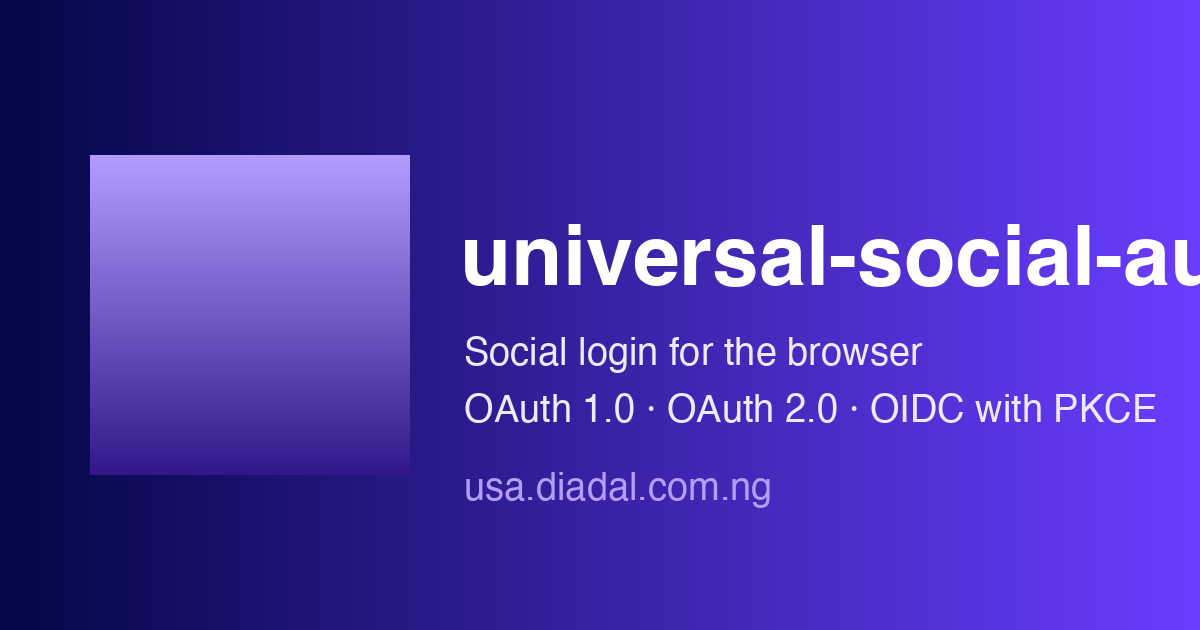
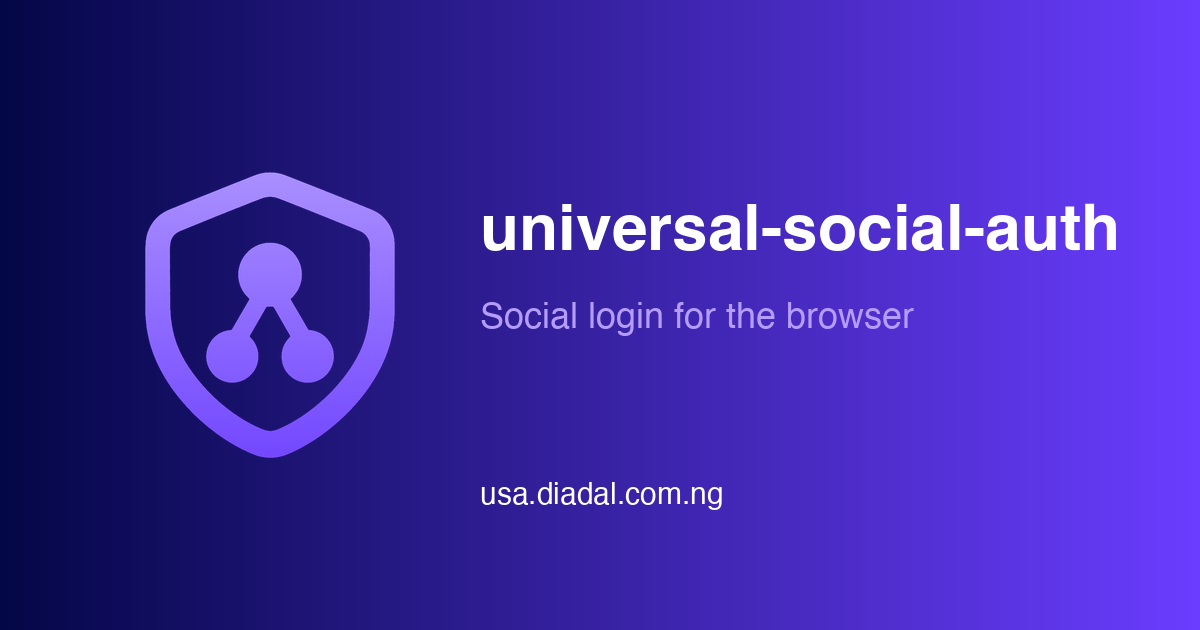
feat(docs): enrich landing page with install tabs and code snapshot
- Add npm/pnpm/yarn install tabs and browser/server code snapshot tabs
- Add npm, license and GitHub badges
- Use the logo as the hero image
- Regenerate logo, favicons and OG image from the shield mask; the
  previous recolor filled the whole square with the gradient

diff --git a/docs-site/content/.vitepress/theme/custom.css b/docs-site/content/.vitepress/theme/custom.css
@@ -16,6 +16,36 @@
   --vp-c-brand-soft: rgba(180, 157, 255, 0.16);
 }
 
+.home-badges {
+  display: flex;
+  flex-wrap: wrap;
+  gap: 0.5rem;
+  justify-content: center;
+  margin: 2.5rem 0 1rem;
+}
+
+.home-badges p {
+  display: flex;
+  flex-wrap: wrap;
+  gap: 0.5rem;
+  justify-content: center;
+  margin: 0;
+}
+
+.home-cta {
+  margin: 2.5rem auto 0;
+  max-width: 688px;
+  padding: 1.25rem 1.5rem;
+  border: 1px solid var(--vp-c-brand-soft);
+  border-radius: 12px;
+  background: var(--vp-c-brand-soft);
+  text-align: center;
+}
+
+.vp-doc div[class*='language-'] {
+  border-radius: 12px;
+}
+
 .VPButton.brand {
   border-color: #6b3dff;
   background-color: #6b3dff;

diff --git a/docs-site/content/index.md b/docs-site/content/index.md
@@ -5,6 +5,9 @@ hero:
   name: universal-social-auth
   text: Social login for the browser
   tagline: OAuth 1.0, OAuth 2.0, and OIDC with PKCE, state checks, and lifecycle hooks. Your backend keeps the client secret.
+  image:
+    src: /logo.png
+    alt: universal-social-auth logo
   actions:
     - theme: brand
       text: Get started
@@ -24,3 +27,64 @@ features:
   - title: Works with your backend
     details: Recipes for Express, Laravel, Zintrust, and other backends, plus OIDC providers such as Okta, Entra ID, and Keycloak.
 ---
+
+<div class="home-badges">
+
+[![npm version](https://img.shields.io/npm/v/universal-social-auth?color=6b3dff&label=npm)](https://www.npmjs.com/package/universal-social-auth)
+[![license](https://img.shields.io/npm/l/universal-social-auth?color=1a1b4d)](https://github.com/diadal/universal-social-auth/blob/main/LICENSE)
+[![GitHub](https://img.shields.io/badge/source-GitHub-1a1b4d?logo=github)](https://github.com/diadal/universal-social-auth)
+
+</div>
+
+## Install in seconds
+
+::: code-group
+
+```bash [npm]
+npm install universal-social-auth axios
+```
+
+```bash [pnpm]
+pnpm add universal-social-auth axios
+```
+
+```bash [yarn]
+yarn add universal-social-auth axios
+```
+
+:::
+
+## See it in code
+
+::: code-group
+
+```ts [Browser]
+import axios from 'axios';
+import UniversalSocialauth from 'universal-social-auth';
+
+const auth = new UniversalSocialauth(axios, {
+  providers: {
+    google: {
+      url: '/api/auth/google',
+      clientId: 'YOUR_PUBLIC_CLIENT_ID',
+      redirectUri: `${window.location.origin}/callback`
+    }
+  }
+});
+```
+
+```bash [Server]
+# Your backend exchanges the code and keeps the client secret.
+# Pick a recipe for your stack:
+#   /docs/recipes/express
+#   /docs/recipes/laravel
+#   /docs/recipes/zintrust
+```
+
+:::
+
+<div class="home-cta">
+
+**Ready to ship?** Read the [getting started guide](/getting-started), browse the [backend recipes](/docs/recipes/express), or [support the project](/sponsor).
+
+</div>
